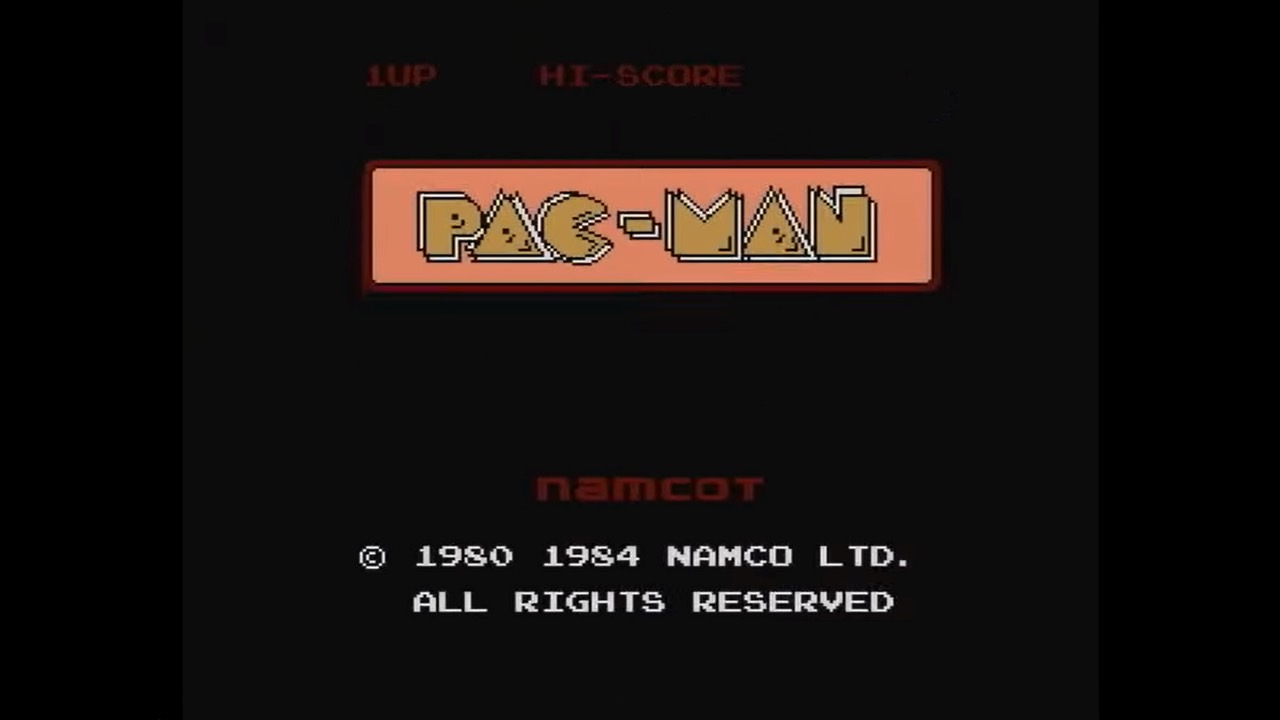
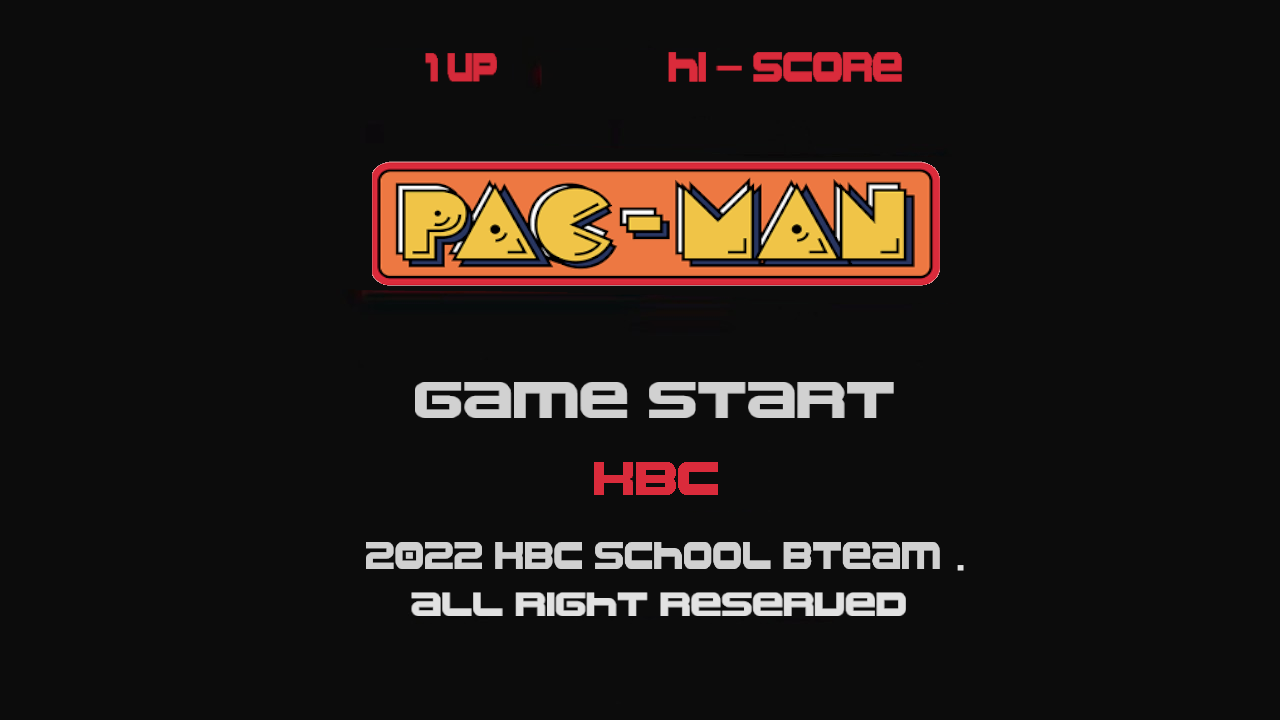
タイトルにあるテキスト削除、タイトル画像、ゲームスタート時テキスト画像の追加

diff --git a/Title.cpp b/Title.cpp
@@ -25,7 +25,7 @@ void Title::Draw() {
 	Move();
 	DrawGraph(pos_x, pos_y, titleImage, FALSE);
 	SetFontSize(35);
-	DrawString(530, pos_y + 380, "Push A Start!", GetColor(210, 210, 210));
+	//DrawString(530, pos_y + 380, "Push A Start!", GetColor(210, 210, 210));
 }
 
 void Title::Move() {
